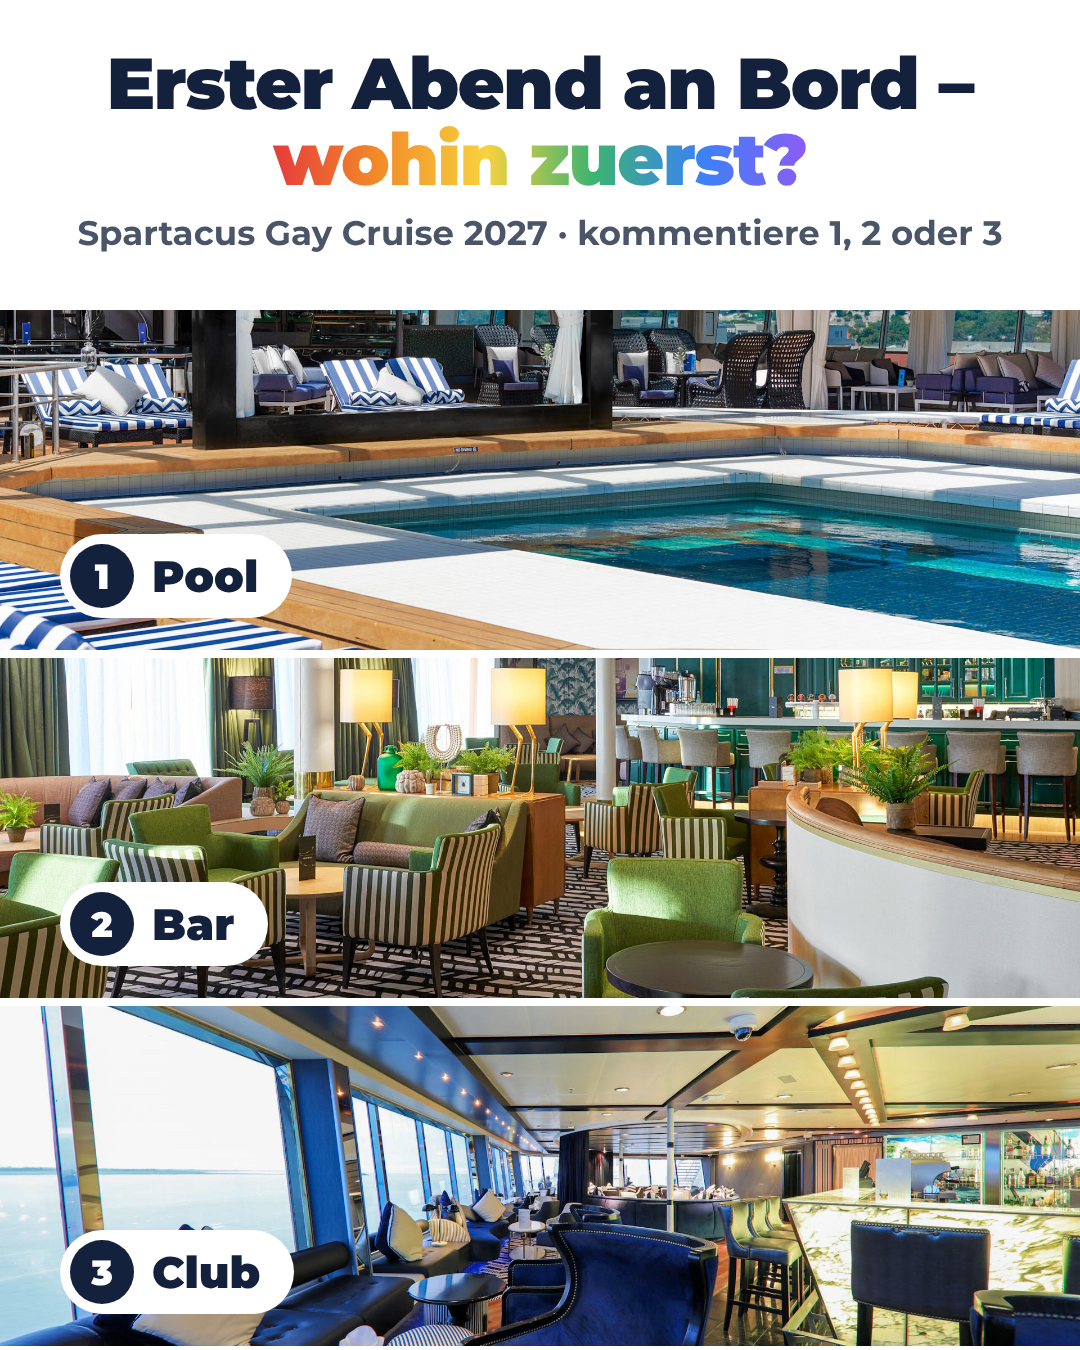
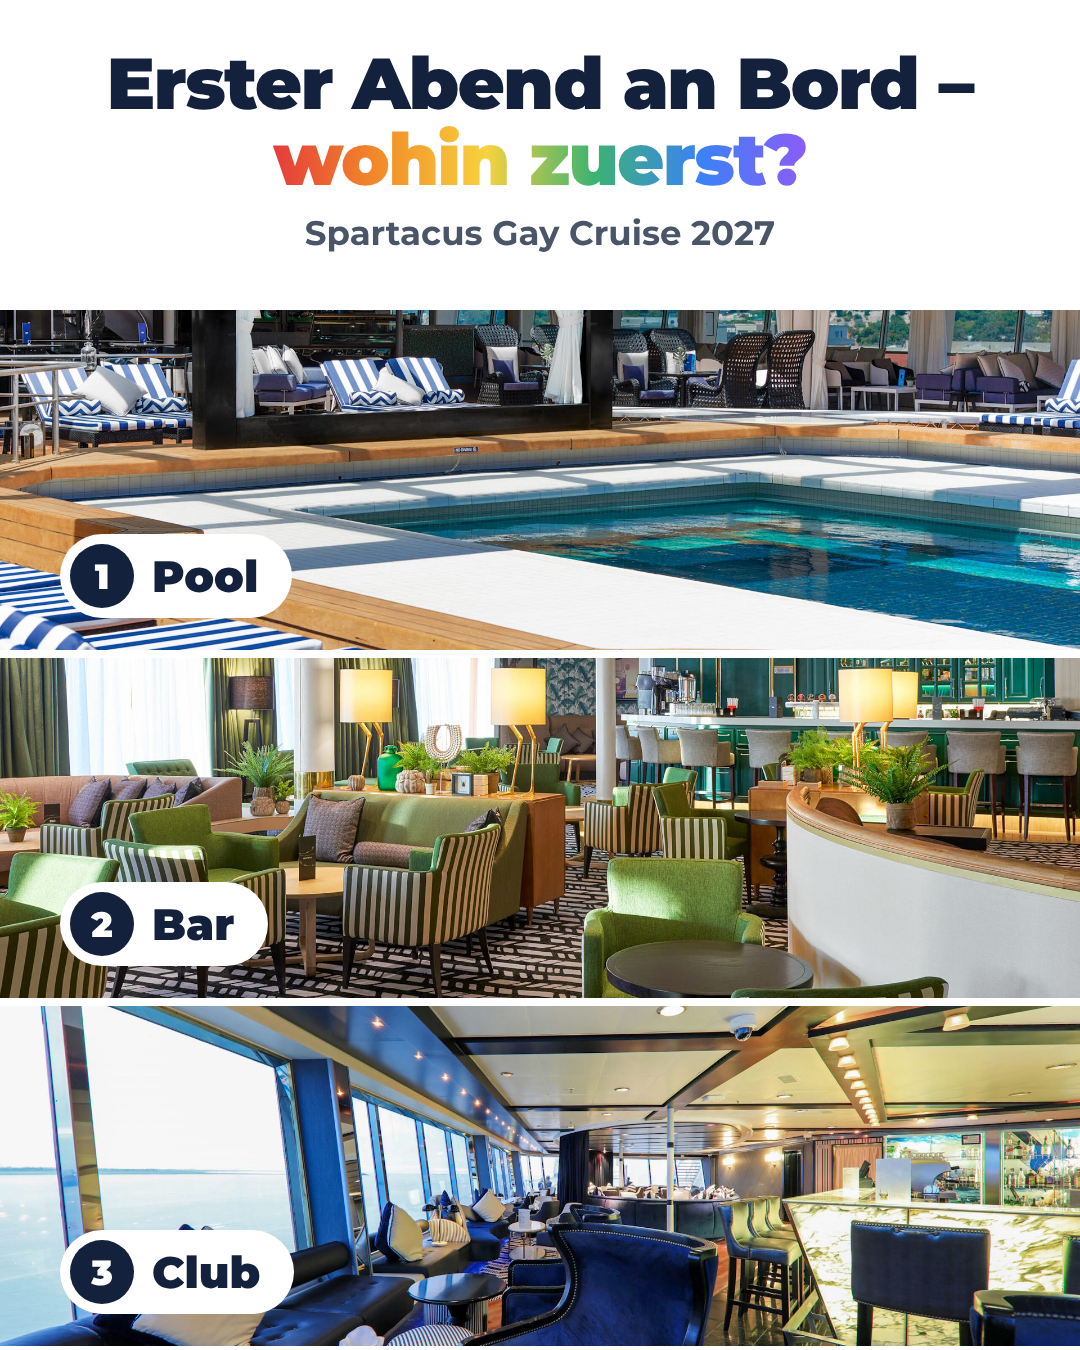
Round 5: 8 posts with Pexels and landing-page photos; remove comment CTA from pool/bar/club
Claude-Session: https://claude.ai/code/session_01Vb84q24uwVnUp9RpLfUhf2

Changed region(s): [[0.0611, 0.1556, 0.9472, 0.1867]]

diff --git a/creatives/organische-posts.md b/creatives/organische-posts.md
@@ -545,3 +545,87 @@ Prinzip: Jeder Post hat **eine** Idee und **eine** Handlung (kommentieren, speic
 | 01.12. | 14 4 Tage | 10 Winnetou live | 7 Tagsüber Sonne | 3 Pool/Bar/Club |
 | 08.12. | – | 11 Zum 7. Mal | 6 So schön war's 2025 | 1 Packliste |
 | 15.12. | – | 9 Wenn es dunkel wird | 8 Triest oder Bari | 4 Route |
+
+---
+
+## Runde 5 – 8 weitere Posts mit neuen Fotos
+Bilder: `organisch/export/r5-*.png` · Skript: `organisch/render-r5.mjs`
+
+**Fotos:**
+- **Pexels** (lizenzfrei, Pexels-Lizenz, Namensnennung nicht nötig): Barcelona #19866630, Perast/Montenegro #31989354, Anstoßen #3171736, Danzig bei Nacht #14018883, Marienburg #18689965
+- **Landingpages:** Vasco da Gama Dome-Lounge, Costa Deliziosa (© Costa Crociere), Karl May Einritt (© Robin Schart)
+
+**Abgleich mit den Landingpages:**
+- Barcelona: 16.10., 08–19 Uhr, laut Reiseablauf
+- Kotor: 04.10., laut Fahrplan auf beiden Routen
+- Danzig: alle Leistungen laut Seite
+
+**Spartacus 1 · Barcelona** (Hafen-Steckbrief)
+> Stopp 1 der Spartacus Gay Cruise 2027: Barcelona! 🌈🇪🇸
+>
+> Am 16.10. liegen wir von 8 bis 19 Uhr in Barcelona – genug Zeit für Strand, Altstadt oder einen Abstecher nach Sitges, eines der offensten Reiseziele für die LGBTQ+ Community.
+>
+> 📅 15.–22.10.2027 · ab Palma de Mallorca · ab 1.349 € p. P.
+>
+> 📩 Schreib uns für alle Infos.
+
+**Spartacus 2 · Sundowner mit Meerblick rundum**
+> Sundowner mit Meerblick rundum. 🍸🌅
+>
+> Die Dome Observation Lounge der Vasco da Gama ist der perfekte Ort, um den Tag ausklingen zu lassen – bevor es in die nächste Partynacht geht.
+>
+> 📅 Spartacus Gay Cruise · 15.–22.10.2027
+> 📩 Schreib uns – wir beraten dich persönlich.
+
+**Schlager 1 · Hallo, Montenegro!**
+> Hallo, Montenegro! 🏝
+>
+> Am 04.10.2027 macht die Schlager-Seereise in Kotor Halt – mitten in einer der schönsten Buchten Europas. Dazu Italien, Griechenland und Albanien.
+>
+> 📅 02.–09.10. ab Triest · 03.–10.10. ab Bari
+> 💶 ab 1.299 € p. P. inkl. Vollpension
+>
+> 📩 Schreiben Sie uns für alle Infos.
+
+**Schlager 2 · Ihr Zuhause für eine Woche**
+> Ihr Zuhause für eine Woche: die Costa Deliziosa. 🚢
+>
+> 7 Nächte, über 30 Schlagerstars an Bord, Vollpension und Trinkgelder inklusive – tagsüber Mittelmeer, abends Konzerte.
+>
+> 📅 Oktober 2027 · ab Triest oder Bari · ab 1.299 € p. P.
+>
+> 📩 Jetzt Nachricht schreiben und Kabine reservieren.
+
+**Karl May · Gänsehaut, wenn Winnetou einreitet**
+> Gänsehaut pur, wenn Winnetou in die Arena reitet. 🐎
+>
+> Erleben Sie diesen Moment live bei den Karl-May-Spielen 2027 in Bad Segeberg – mit Alexander Klaws als Winnetou.
+>
+> 🚌 Busreise ab Erfurt · 2 Nächte mit Halbpension · Eintrittskarte
+> 📅 07.–09.07. oder 18.–20.07.2027 · 💶 399 € p. P.
+>
+> 📩 Schreiben Sie uns einfach eine Nachricht.
+
+**Danzig 1 · Auf ein neues Jahr!**
+> Auf ein neues Jahr! 🥂
+>
+> Beim festlichen Silvester-Galadinner mit Open Bar in Danzig stoßen Sie gemeinsam an – danach feiern Sie mit Heiko & Andy ins neue Jahr.
+>
+> 📅 30.12.2026 – 02.01.2027 · ab 789 € p. P.
+>
+> 📩 Jetzt Nachricht schreiben und Platz sichern.
+
+**Danzig 2 · Sie feiern. Wir kümmern uns.**
+> Sie feiern. Wir kümmern uns. ✨
+>
+> Haustür-Transfer, 4-Sterne-Hotel direkt an der Ostsee, geführte Ausflüge und persönliche Reisebegleitung – bei unserer Silvesterreise nach Danzig ist alles organisiert.
+>
+> 📅 30.12.2026 – 02.01.2027 · ab 789 € p. P.
+> ℹ Haustür-Transfer inklusive in den PLZ-Gebieten 01 und 02, andere Gebiete auf Anfrage.
+
+**Danzig 3 · Die Marienburg**
+> Die Marienburg – die größte Backsteinburg der Welt. 🏰
+>
+> Bei unserer Silvesterreise nach Danzig ist der geführte Ausflug dorthin bereits inklusive. Dazu: Galadinner, Schlagergala mit Heiko & Andy und eine Dreistadt-Tour.
+>
+> 📅 30.12.2026 – 02.01.2027 · ab 789 € p. P.
